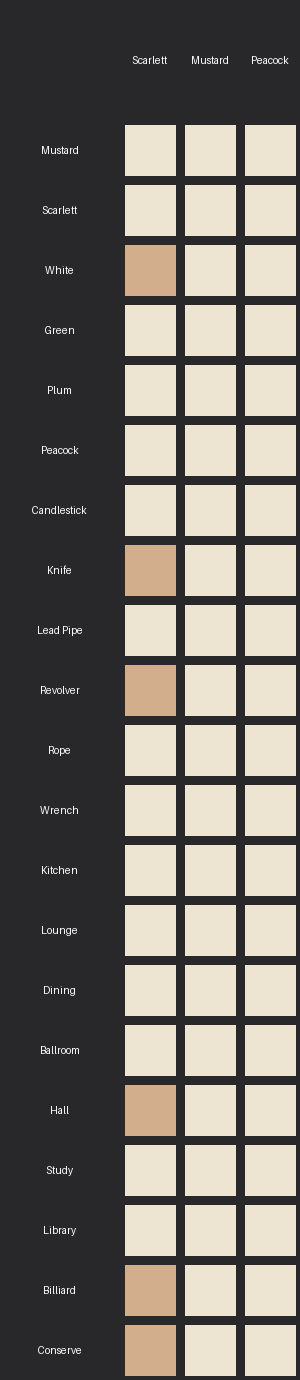
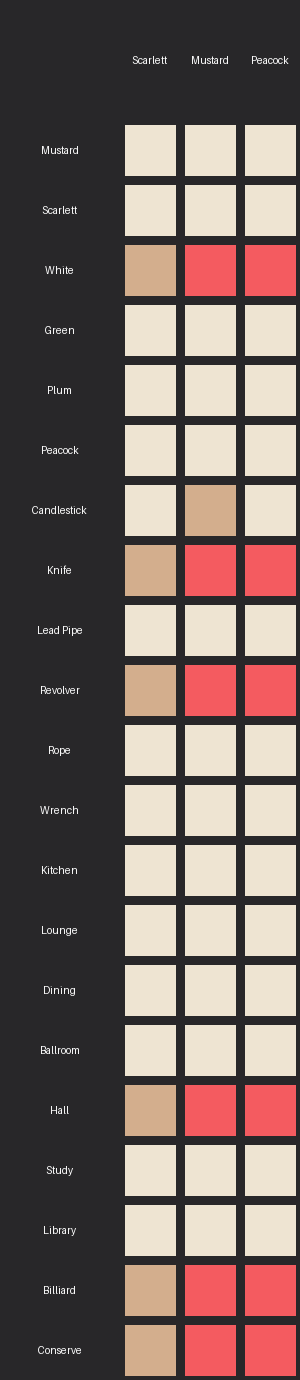
fix: correct out of index handling for board, correct usage of store_revealed_card()

diff --git a/clue/clue.py b/clue/clue.py
@@ -80,7 +80,7 @@ class Clue(object):
                 if self.tallysheet.is_true(item):
                     continue
                 # ask about items most likely to be false
-                score = self.tallysheet.count_false_marks(item)
+                score = self.tallysheet.count_false(item)
                 if score > best_item[1]:
                     best_item = [item, score]
             return best_item[0]
@@ -153,10 +153,10 @@ class Clue(object):
                     input(f"Enter the card {questioned_player} revealed: "),
                     list(self.suspects.keys()) + self.weapons + self.rooms,
                 )
-                self.tallysheet.store_revealed_card(revealed_card)
+                self.tallysheet.store_revealed_card(questioned_player, revealed_card)
             questioned_player = self.__get_next_player(questioned_player)
 
-        print("CPU turn not implemented.")
+        
 
     def __get_attribute_name(self, provided_attribute, attributes):
         """
@@ -257,26 +257,12 @@ class Clue(object):
         # the four possible moves
         directions = [(-1, 0), (1, 0), (0, -1), (0, 1)]
 
-    def __possible_moves(self, movement):
-        """
-        Purpose:
-            Determines all possible rooms the CPU can move to and their distances.
-        Pre-conditions:
-            int movement: the number of spaces the CPU can move.
-        Post-conditions:
-            None.
-        Returns:
-            list of tuples (str, int): Each tuple contains a room and its distance from the start.
-        """
-        # the four possible moves
-        directions = [(-1, 0), (1, 0), (0, -1), (0, 1)]
-
-        def is_within_bounds(position):
+        def is_within_bounds(position, grid=self.board):
             """
             Check if the position is within the board boundaries to prevent indexing errors.
             """
             x, y = position
-            return 0 <= x < len(self.board[0]) and 0 <= y < len(self.board)
+            return 0 <= x < len(grid[0]) and 0 <= y < len(grid)
 
         def enter_door(position):
             """
@@ -323,7 +309,7 @@ class Clue(object):
         ]  # Each entry is (position, distance)
         board_width = len(self.board[0])
         board_height = len(self.board)
-        visited = [[False for _ in range(board_height)] for _ in range(board_width)]
+        visited = [[False for _ in range(board_width)] for _ in range(board_height)]
 
         # store eligible rooms
         rooms = []
@@ -332,10 +318,13 @@ class Clue(object):
 
             # check if the player can enter a door
             tile = self.board[current_position[1]][current_position[0]]
-            if tile == "Door" and current_distance <= movement:
+            distance_to_enter_room = current_distance + 1
+            if tile == "Door" and distance_to_enter_room <= movement:
                 room = enter_door(current_position)
                 if room:
                     rooms.append((room, current_distance))
+                else:
+                    raise ValueError("Error: door leads to no room.")
 
             # explore neighbors
             for direction in directions:
@@ -346,7 +335,7 @@ class Clue(object):
 
                 # check board boundaries and if the neighbor is walkable and not visited
                 if (
-                    is_within_bounds(neighbor)
+                    is_within_bounds(neighbor, visited)
                     and not visited[neighbor[1]][neighbor[0]]
                     and self.board[neighbor[1]][neighbor[0]] != "x"
                 ):

diff --git a/clue/clueTracker.py b/clue/clueTracker.py
@@ -74,6 +74,8 @@ class ClueTracker:
     def draw_sheet(self, filename):
         from PIL import Image, ImageDraw, ImageFont
 
+        self.update_tally_sheet()
+
         def get_tile_color(tile):
             tile_colors = {
                 True: (211, 174, 141),  # light brown for True
